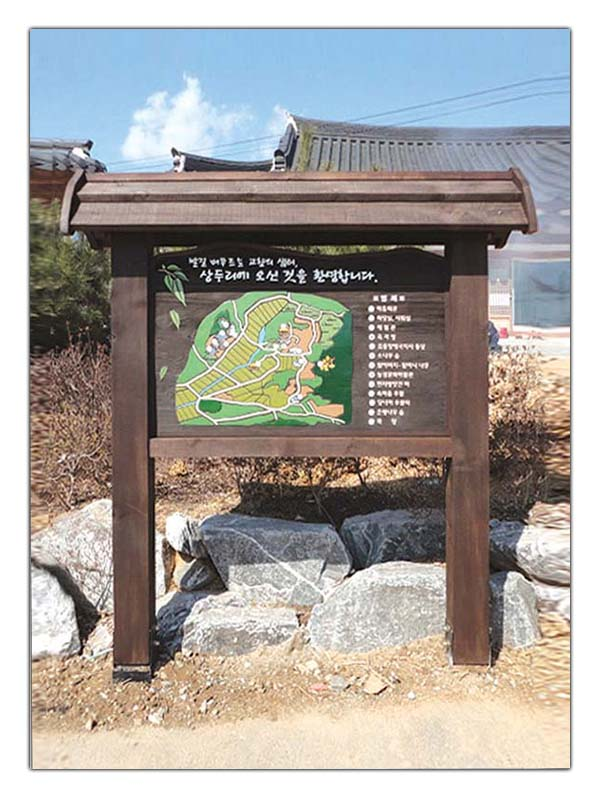
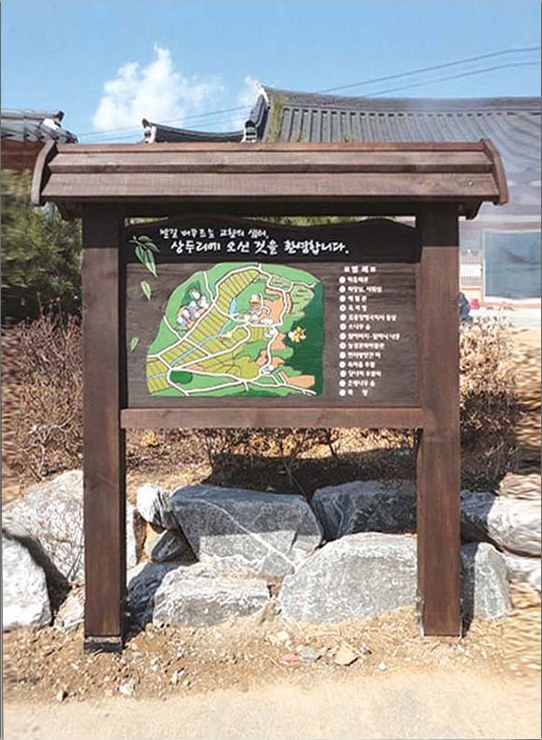
제품 카드 사진 비율을 원본(6:7)에 맞춰 여백 없이 꽉 채움, 흰 테두리 사진 2장 정리
Claude-Session: https://claude.ai/code/session_01SCwyArqyrCWBG9B4D3Cbif

diff --git a/css/style.css b/css/style.css
@@ -202,7 +202,7 @@ a.card:hover h3 { text-decoration: underline; }
 .count { font-size: 15px; color: var(--muted); }
 .count strong { color: var(--forest-dark); }
 .product-grid { display: grid; gap: 24px; grid-template-columns: repeat(auto-fill, minmax(240px, 1fr)); }
-.product-grid .card-img { height: 240px; background: #fff; }
+.product-grid .card-img { height: auto; aspect-ratio: 6 / 7; background: var(--sand); }
 .product-grid .card-img img { object-fit: cover; object-position: center; }
 .product-grid .card-body { padding: 16px 18px 18px; gap: 4px; }
 .product-grid .card-body h3 { font-size: 19px; }
